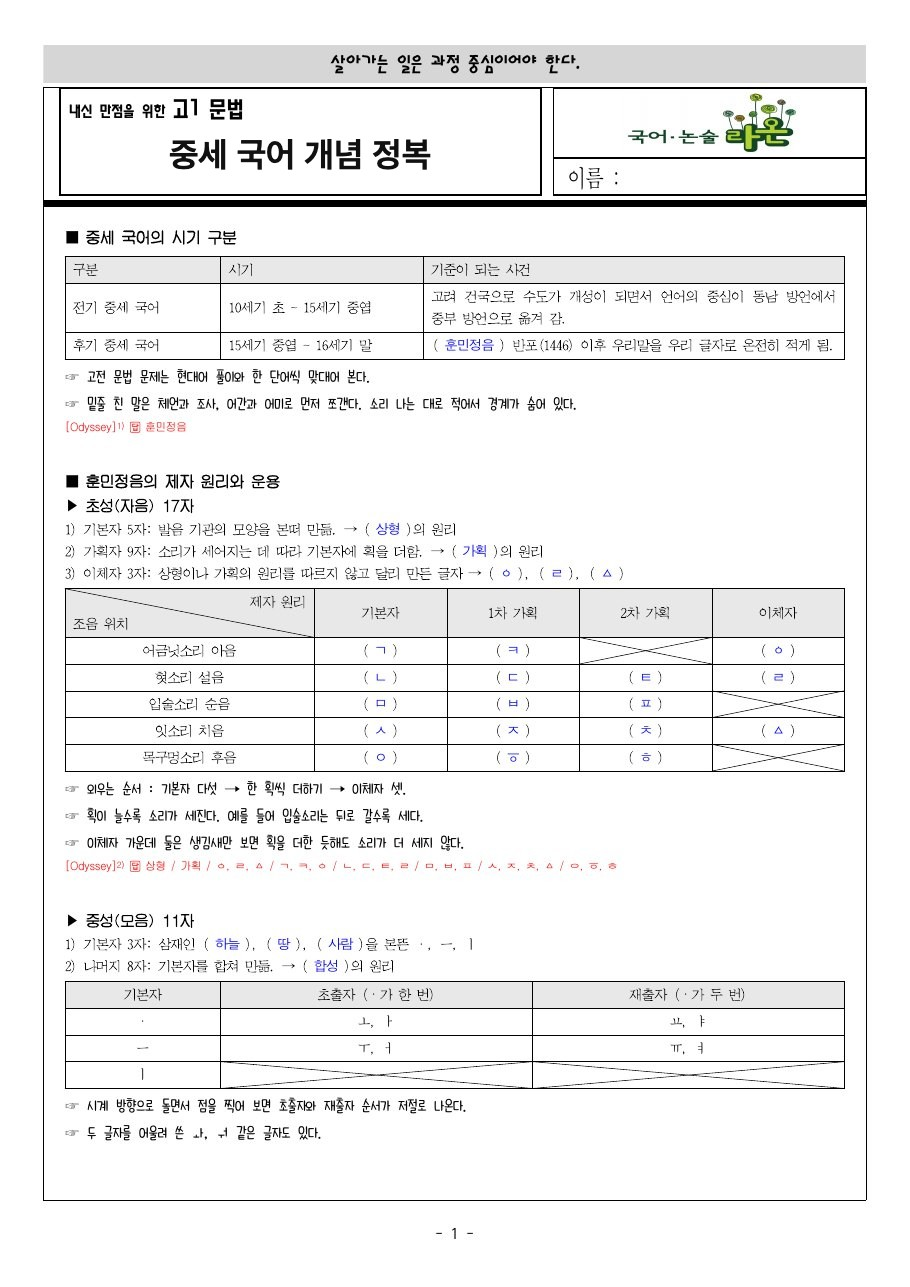
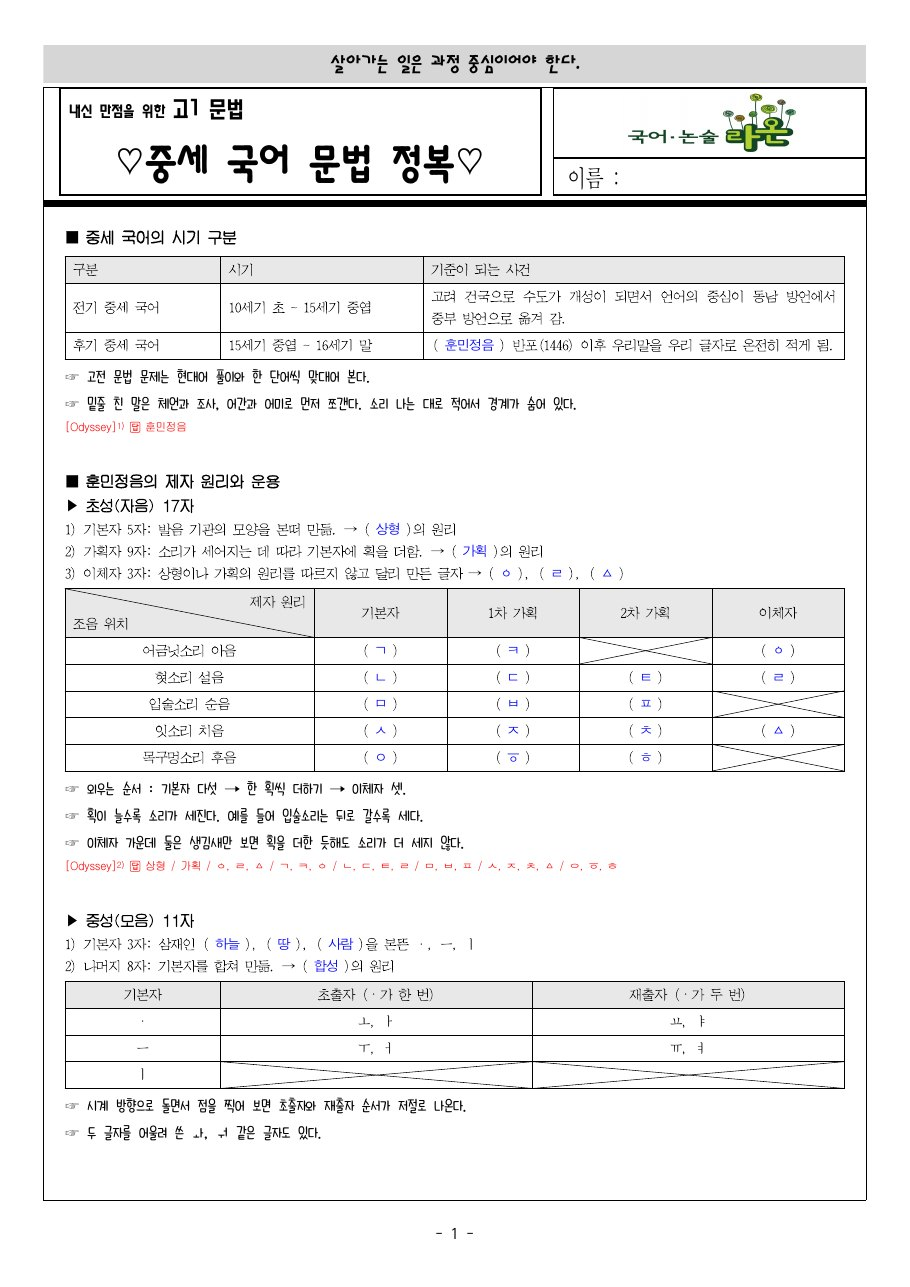
라온: 중세 국어 문법 정복 실제 PDF, 교과서 필기 사진, 춘향전 학습지 5쪽, 스킬 설명 수정

Changed region(s): [[0.1538, 0.0932, 0.4923, 0.1554]]

diff --git a/raon.html b/raon.html
@@ -11,9 +11,9 @@
   <link rel="preconnect" href="https://fonts.gstatic.com" crossorigin>
   <link href="https://fonts.googleapis.com/css2?family=Archivo:wght@400;600&display=swap" rel="stylesheet">
   <link rel="stylesheet" href="https://cdn.jsdelivr.net/gh/orioncactus/pretendard@v1.3.9/dist/web/static/pretendard-subset.min.css">
-  <link rel="stylesheet" href="base.css?v=1794302077">
-  <link rel="stylesheet" href="style.css?v=1794302077">
-  <script>if(!/theme=dark/.test(location.search)){document.write('<link rel="stylesheet" href="light.css?v=1794302077">')}</script>
+  <link rel="stylesheet" href="base.css?v=1794302417">
+  <link rel="stylesheet" href="style.css?v=1794302417">
+  <script>if(!/theme=dark/.test(location.search)){document.write('<link rel="stylesheet" href="light.css?v=1794302417">')}</script>
 </head>
 <body data-lens="design" class="case-page">
   <header class="bar">
@@ -54,9 +54,9 @@
           <caption>스킬 6개</caption>
           <tbody>
             <tr><td>worksheet</td><td>학원 양식 학습지</td></tr>
-            <tr><td>arirang-worksheet</td><td>아리랑틀 양식 문제</td></tr>
+            <tr><td>arirang-worksheet</td><td>학원 고유 양식 문제지 제작</td></tr>
             <tr><td>naesin-review</td><td>학생 입장에서 한 문제씩 풀어 보는 검수</td></tr>
-            <tr><td>analysis-note</td><td>교사용 지문 분석노트</td></tr>
+            <tr><td>analysis-note</td><td>교사용 수업 자료 제작</td></tr>
             <tr><td>analysis-note-blanks</td><td>분석노트 빈칸, 교사용·학생용 두 벌</td></tr>
             <tr><td>manjeom-danggwonhwa</td><td>시험 직전 「만점 마무리 단권화」</td></tr>
           </tbody>
@@ -65,20 +65,21 @@
       <div class="case-wide gw-slides">
         <p class="slides-cap" data-reveal>중세 국어, 개념 학습지와 쪽지시험</p>
         <div class="raon-pair two" data-reveal>
-          <figure><img src="assets/raon/jungse-worksheet.jpg" alt="중세 국어 개념 정복 학습지, 교사용" width="910" height="1287" loading="lazy"><figcaption>개념 학습지</figcaption></figure>
+          <figure><img src="assets/raon/jungse-worksheet.jpg" alt="중세 국어 문법 정복 학습지, 교사용" width="910" height="1287" loading="lazy"><figcaption>개념 학습지</figcaption></figure>
           <figure><img src="assets/raon/quiz.jpg" alt="중세 국어 쪽지 시험, 교사용" width="910" height="1287" loading="lazy"><figcaption>쪽지시험</figcaption></figure>
         </div>
-        <p class="slides-cap" data-reveal>춘향전, 학생 필기가 분석노트로</p>
-        <div class="raon-pair" data-reveal>
-          <figure><img src="assets/raon/handwriting.jpg" alt="학교 수업 자료 위에 적은 학생 필기, 춘향전" width="1300" height="975" loading="lazy"><figcaption>학생 필기</figcaption></figure>
+        <p class="slides-cap" data-reveal>춘향전, 학생 필기가 분석노트와 학습지로</p>
+        <div class="raon-pair three" data-reveal>
+          <figure><img src="assets/raon/handwriting.jpg" alt="교과서에 적은 학생 필기, 춘향전" width="1050" height="1400" loading="lazy"><figcaption>학생 필기</figcaption></figure>
           <figure><img src="assets/raon/analysis-note.jpg" alt="필기가 반영된 분석노트 본문, 춘향전" width="919" height="1300" loading="lazy"><figcaption>분석노트</figcaption></figure>
+          <figure><img src="assets/raon/chunhyang-worksheet.jpg" alt="춘향전 학습지, 표현 특징 정리" width="910" height="1287" loading="lazy"><figcaption>학습지</figcaption></figure>
         </div>
       </div>
     </section>
     <a class="case-next" href="index.html#experience">이력으로 돌아가기</a>
   </main>
-  <script src="base.js?v=1794302077"></script>
-  <script src="main.js?v=1794302077"></script>
-  <script src="fitphone.js?v=1794302077"></script><script src="swipe.js?v=1794302077"></script>
+  <script src="base.js?v=1794302417"></script>
+  <script src="main.js?v=1794302417"></script>
+  <script src="fitphone.js?v=1794302417"></script><script src="swipe.js?v=1794302417"></script>
 </body>
 </html>

diff --git a/cases/raon.html b/cases/raon.html
@@ -27,9 +27,9 @@
           <caption>스킬 6개</caption>
           <tbody>
             <tr><td>worksheet</td><td>학원 양식 학습지</td></tr>
-            <tr><td>arirang-worksheet</td><td>아리랑틀 양식 문제</td></tr>
+            <tr><td>arirang-worksheet</td><td>학원 고유 양식 문제지 제작</td></tr>
             <tr><td>naesin-review</td><td>학생 입장에서 한 문제씩 풀어 보는 검수</td></tr>
-            <tr><td>analysis-note</td><td>교사용 지문 분석노트</td></tr>
+            <tr><td>analysis-note</td><td>교사용 수업 자료 제작</td></tr>
             <tr><td>analysis-note-blanks</td><td>분석노트 빈칸, 교사용·학생용 두 벌</td></tr>
             <tr><td>manjeom-danggwonhwa</td><td>시험 직전 「만점 마무리 단권화」</td></tr>
           </tbody>
@@ -38,13 +38,14 @@
       <div class="case-wide gw-slides">
         <p class="slides-cap" data-reveal>중세 국어, 개념 학습지와 쪽지시험</p>
         <div class="raon-pair two" data-reveal>
-          <figure><img src="assets/raon/jungse-worksheet.jpg" alt="중세 국어 개념 정복 학습지, 교사용" width="910" height="1287" loading="lazy"><figcaption>개념 학습지</figcaption></figure>
+          <figure><img src="assets/raon/jungse-worksheet.jpg" alt="중세 국어 문법 정복 학습지, 교사용" width="910" height="1287" loading="lazy"><figcaption>개념 학습지</figcaption></figure>
           <figure><img src="assets/raon/quiz.jpg" alt="중세 국어 쪽지 시험, 교사용" width="910" height="1287" loading="lazy"><figcaption>쪽지시험</figcaption></figure>
         </div>
-        <p class="slides-cap" data-reveal>춘향전, 학생 필기가 분석노트로</p>
-        <div class="raon-pair" data-reveal>
-          <figure><img src="assets/raon/handwriting.jpg" alt="학교 수업 자료 위에 적은 학생 필기, 춘향전" width="1300" height="975" loading="lazy"><figcaption>학생 필기</figcaption></figure>
+        <p class="slides-cap" data-reveal>춘향전, 학생 필기가 분석노트와 학습지로</p>
+        <div class="raon-pair three" data-reveal>
+          <figure><img src="assets/raon/handwriting.jpg" alt="교과서에 적은 학생 필기, 춘향전" width="1050" height="1400" loading="lazy"><figcaption>학생 필기</figcaption></figure>
           <figure><img src="assets/raon/analysis-note.jpg" alt="필기가 반영된 분석노트 본문, 춘향전" width="919" height="1300" loading="lazy"><figcaption>분석노트</figcaption></figure>
+          <figure><img src="assets/raon/chunhyang-worksheet.jpg" alt="춘향전 학습지, 표현 특징 정리" width="910" height="1287" loading="lazy"><figcaption>학습지</figcaption></figure>
         </div>
       </div>
     </section>

diff --git a/index.html b/index.html
@@ -11,9 +11,9 @@
   <link rel="preconnect" href="https://fonts.gstatic.com" crossorigin>
   <link href="https://fonts.googleapis.com/css2?family=Archivo:wght@400;600&display=swap" rel="stylesheet">
   <link rel="stylesheet" href="https://cdn.jsdelivr.net/gh/orioncactus/pretendard@v1.3.9/dist/web/static/pretendard-subset.min.css">
-  <link rel="stylesheet" href="base.css?v=1794302077">
-  <link rel="stylesheet" href="style.css?v=1794302077">
-  <script>if(!/theme=dark/.test(location.search)){document.write('<link rel="stylesheet" href="light.css?v=1794302077">')}</script>
+  <link rel="stylesheet" href="base.css?v=1794302417">
+  <link rel="stylesheet" href="style.css?v=1794302417">
+  <script>if(!/theme=dark/.test(location.search)){document.write('<link rel="stylesheet" href="light.css?v=1794302417">')}</script>
 </head>
 <body data-lens="design">
   <header class="bar">
@@ -230,8 +230,8 @@
   </main>
 
 
-  <script src="base.js?v=1794302077"></script>
-  <script src="main.js?v=1794302077"></script>
+  <script src="base.js?v=1794302417"></script>
+  <script src="main.js?v=1794302417"></script>
 <script>
 (function(){var a=document.querySelector('.frame[data-variants]');if(!a)return;var v=a.getAttribute('data-variants').split(' '),i=0,img=a.querySelector('img');
 v.forEach(function(u){var x=new Image();x.src=u;});
@@ -239,6 +239,6 @@ function next(){i=(i+1)%v.length;img.src=v[i];}
 a.addEventListener('mouseenter',next);a.addEventListener('focus',next);
 new MutationObserver(next).observe(document.body,{attributes:true,attributeFilter:['data-lens']});})();
 </script>
-<script src="fitphone.js?v=1794302077"></script><script src="swipe.js?v=1794302077"></script>
+<script src="fitphone.js?v=1794302417"></script><script src="swipe.js?v=1794302417"></script>
 </body>
 </html>

diff --git a/sunic.html b/sunic.html
@@ -11,9 +11,9 @@
   <link rel="preconnect" href="https://fonts.gstatic.com" crossorigin>
   <link href="https://fonts.googleapis.com/css2?family=Archivo:wght@400;600&display=swap" rel="stylesheet">
   <link rel="stylesheet" href="https://cdn.jsdelivr.net/gh/orioncactus/pretendard@v1.3.9/dist/web/static/pretendard-subset.min.css">
-  <link rel="stylesheet" href="base.css?v=1794302077">
-  <link rel="stylesheet" href="style.css?v=1794302077">
-  <script>if(!/theme=dark/.test(location.search)){document.write('<link rel="stylesheet" href="light.css?v=1794302077">')}</script>
+  <link rel="stylesheet" href="base.css?v=1794302417">
+  <link rel="stylesheet" href="style.css?v=1794302417">
+  <script>if(!/theme=dark/.test(location.search)){document.write('<link rel="stylesheet" href="light.css?v=1794302417">')}</script>
 </head>
 <body data-lens="design" class="case-page">
   <header class="bar">
@@ -59,8 +59,8 @@
     </section>
     <a class="case-next" href="art4everyone.html">다음 프로젝트, Art4Everyone</a>
   </main>
-  <script src="base.js?v=1794302077"></script>
-  <script src="main.js?v=1794302077"></script>
-  <script src="fitphone.js?v=1794302077"></script><script src="swipe.js?v=1794302077"></script>
+  <script src="base.js?v=1794302417"></script>
+  <script src="main.js?v=1794302417"></script>
+  <script src="fitphone.js?v=1794302417"></script><script src="swipe.js?v=1794302417"></script>
 </body>
 </html>

diff --git a/uxim.html b/uxim.html
@@ -11,9 +11,9 @@
   <link rel="preconnect" href="https://fonts.gstatic.com" crossorigin>
   <link href="https://fonts.googleapis.com/css2?family=Archivo:wght@400;600&display=swap" rel="stylesheet">
   <link rel="stylesheet" href="https://cdn.jsdelivr.net/gh/orioncactus/pretendard@v1.3.9/dist/web/static/pretendard-subset.min.css">
-  <link rel="stylesheet" href="base.css?v=1794302077">
-  <link rel="stylesheet" href="style.css?v=1794302077">
-  <script>if(!/theme=dark/.test(location.search)){document.write('<link rel="stylesheet" href="light.css?v=1794302077">')}</script>
+  <link rel="stylesheet" href="base.css?v=1794302417">
+  <link rel="stylesheet" href="style.css?v=1794302417">
+  <script>if(!/theme=dark/.test(location.search)){document.write('<link rel="stylesheet" href="light.css?v=1794302417">')}</script>
 </head>
 <body data-lens="design" class="case-page">
   <header class="bar">
@@ -86,8 +86,8 @@
     </section>
     <a class="case-next" href="index.html#experience">이력으로 돌아가기</a>
   </main>
-  <script src="base.js?v=1794302077"></script>
-  <script src="main.js?v=1794302077"></script>
-  <script src="fitphone.js?v=1794302077"></script><script src="swipe.js?v=1794302077"></script>
+  <script src="base.js?v=1794302417"></script>
+  <script src="main.js?v=1794302417"></script>
+  <script src="fitphone.js?v=1794302417"></script><script src="swipe.js?v=1794302417"></script>
 </body>
 </html>

diff --git a/gachiwork.html b/gachiwork.html
@@ -11,9 +11,9 @@
   <link rel="preconnect" href="https://fonts.gstatic.com" crossorigin>
   <link href="https://fonts.googleapis.com/css2?family=Archivo:wght@400;600&display=swap" rel="stylesheet">
   <link rel="stylesheet" href="https://cdn.jsdelivr.net/gh/orioncactus/pretendard@v1.3.9/dist/web/static/pretendard-subset.min.css">
-  <link rel="stylesheet" href="base.css?v=1794302077">
-  <link rel="stylesheet" href="style.css?v=1794302077">
-  <script>if(!/theme=dark/.test(location.search)){document.write('<link rel="stylesheet" href="light.css?v=1794302077">')}</script>
+  <link rel="stylesheet" href="base.css?v=1794302417">
+  <link rel="stylesheet" href="style.css?v=1794302417">
+  <script>if(!/theme=dark/.test(location.search)){document.write('<link rel="stylesheet" href="light.css?v=1794302417">')}</script>
 </head>
 <body data-lens="design" class="case-page">
   <header class="bar">
@@ -72,8 +72,8 @@
     </section>
     <a class="case-next" href="hwiseo.html">다음 프로젝트, 휘서 Hwiseo</a>
   </main>
-  <script src="base.js?v=1794302077"></script>
-  <script src="main.js?v=1794302077"></script>
-  <script src="fitphone.js?v=1794302077"></script><script src="swipe.js?v=1794302077"></script>
+  <script src="base.js?v=1794302417"></script>
+  <script src="main.js?v=1794302417"></script>
+  <script src="fitphone.js?v=1794302417"></script><script src="swipe.js?v=1794302417"></script>
 </body>
 </html>

diff --git a/hwiseo.html b/hwiseo.html
@@ -11,9 +11,9 @@
   <link rel="preconnect" href="https://fonts.gstatic.com" crossorigin>
   <link href="https://fonts.googleapis.com/css2?family=Archivo:wght@400;600&display=swap" rel="stylesheet">
   <link rel="stylesheet" href="https://cdn.jsdelivr.net/gh/orioncactus/pretendard@v1.3.9/dist/web/static/pretendard-subset.min.css">
-  <link rel="stylesheet" href="base.css?v=1794302077">
-  <link rel="stylesheet" href="style.css?v=1794302077">
-  <script>if(!/theme=dark/.test(location.search)){document.write('<link rel="stylesheet" href="light.css?v=1794302077">')}</script>
+  <link rel="stylesheet" href="base.css?v=1794302417">
+  <link rel="stylesheet" href="style.css?v=1794302417">
+  <script>if(!/theme=dark/.test(location.search)){document.write('<link rel="stylesheet" href="light.css?v=1794302417">')}</script>
 </head>
 <body data-lens="design" class="case-page">
   <header class="bar">
@@ -103,8 +103,8 @@
     </section>
     <a class="case-next" href="sunic.html">다음 프로젝트, 써니C</a>
   </main>
-  <script src="base.js?v=1794302077"></script>
-  <script src="main.js?v=1794302077"></script>
-  <script src="fitphone.js?v=1794302077"></script><script src="swipe.js?v=1794302077"></script>
+  <script src="base.js?v=1794302417"></script>
+  <script src="main.js?v=1794302417"></script>
+  <script src="fitphone.js?v=1794302417"></script><script src="swipe.js?v=1794302417"></script>
 </body>
 </html>

diff --git a/art4everyone.html b/art4everyone.html
@@ -11,9 +11,9 @@
   <link rel="preconnect" href="https://fonts.gstatic.com" crossorigin>
   <link href="https://fonts.googleapis.com/css2?family=Archivo:wght@400;600&display=swap" rel="stylesheet">
   <link rel="stylesheet" href="https://cdn.jsdelivr.net/gh/orioncactus/pretendard@v1.3.9/dist/web/static/pretendard-subset.min.css">
-  <link rel="stylesheet" href="base.css?v=1794302077">
-  <link rel="stylesheet" href="style.css?v=1794302077">
-  <script>if(!/theme=dark/.test(location.search)){document.write('<link rel="stylesheet" href="light.css?v=1794302077">')}</script>
+  <link rel="stylesheet" href="base.css?v=1794302417">
+  <link rel="stylesheet" href="style.css?v=1794302417">
+  <script>if(!/theme=dark/.test(location.search)){document.write('<link rel="stylesheet" href="light.css?v=1794302417">')}</script>
 </head>
 <body data-lens="design" class="case-page">
   <header class="bar">
@@ -58,8 +58,8 @@
     </section>
     <a class="case-next" href="burock.html">다음 프로젝트, BUROCK</a>
   </main>
-  <script src="base.js?v=1794302077"></script>
-  <script src="main.js?v=1794302077"></script>
-  <script src="fitphone.js?v=1794302077"></script><script src="swipe.js?v=1794302077"></script>
+  <script src="base.js?v=1794302417"></script>
+  <script src="main.js?v=1794302417"></script>
+  <script src="fitphone.js?v=1794302417"></script><script src="swipe.js?v=1794302417"></script>
 </body>
 </html>

diff --git a/style.css b/style.css
@@ -577,3 +577,5 @@ body[data-lens] .shelf li .tag, .shelf .tag { background: transparent !important
 .raon-pair figcaption { margin-top: 8px; font-size: 15px; color: var(--muted); }
 .gw-slides .slides-cap + .raon-pair + .slides-cap { margin-top: 56px; }
 @media (max-width: 760px) { .raon-pair, .raon-pair.two { grid-template-columns: 1fr; } }
+.raon-pair.three { grid-template-columns: 1fr 1fr 1fr; }
+@media (max-width: 760px) { .raon-pair.three { grid-template-columns: 1fr; } }
